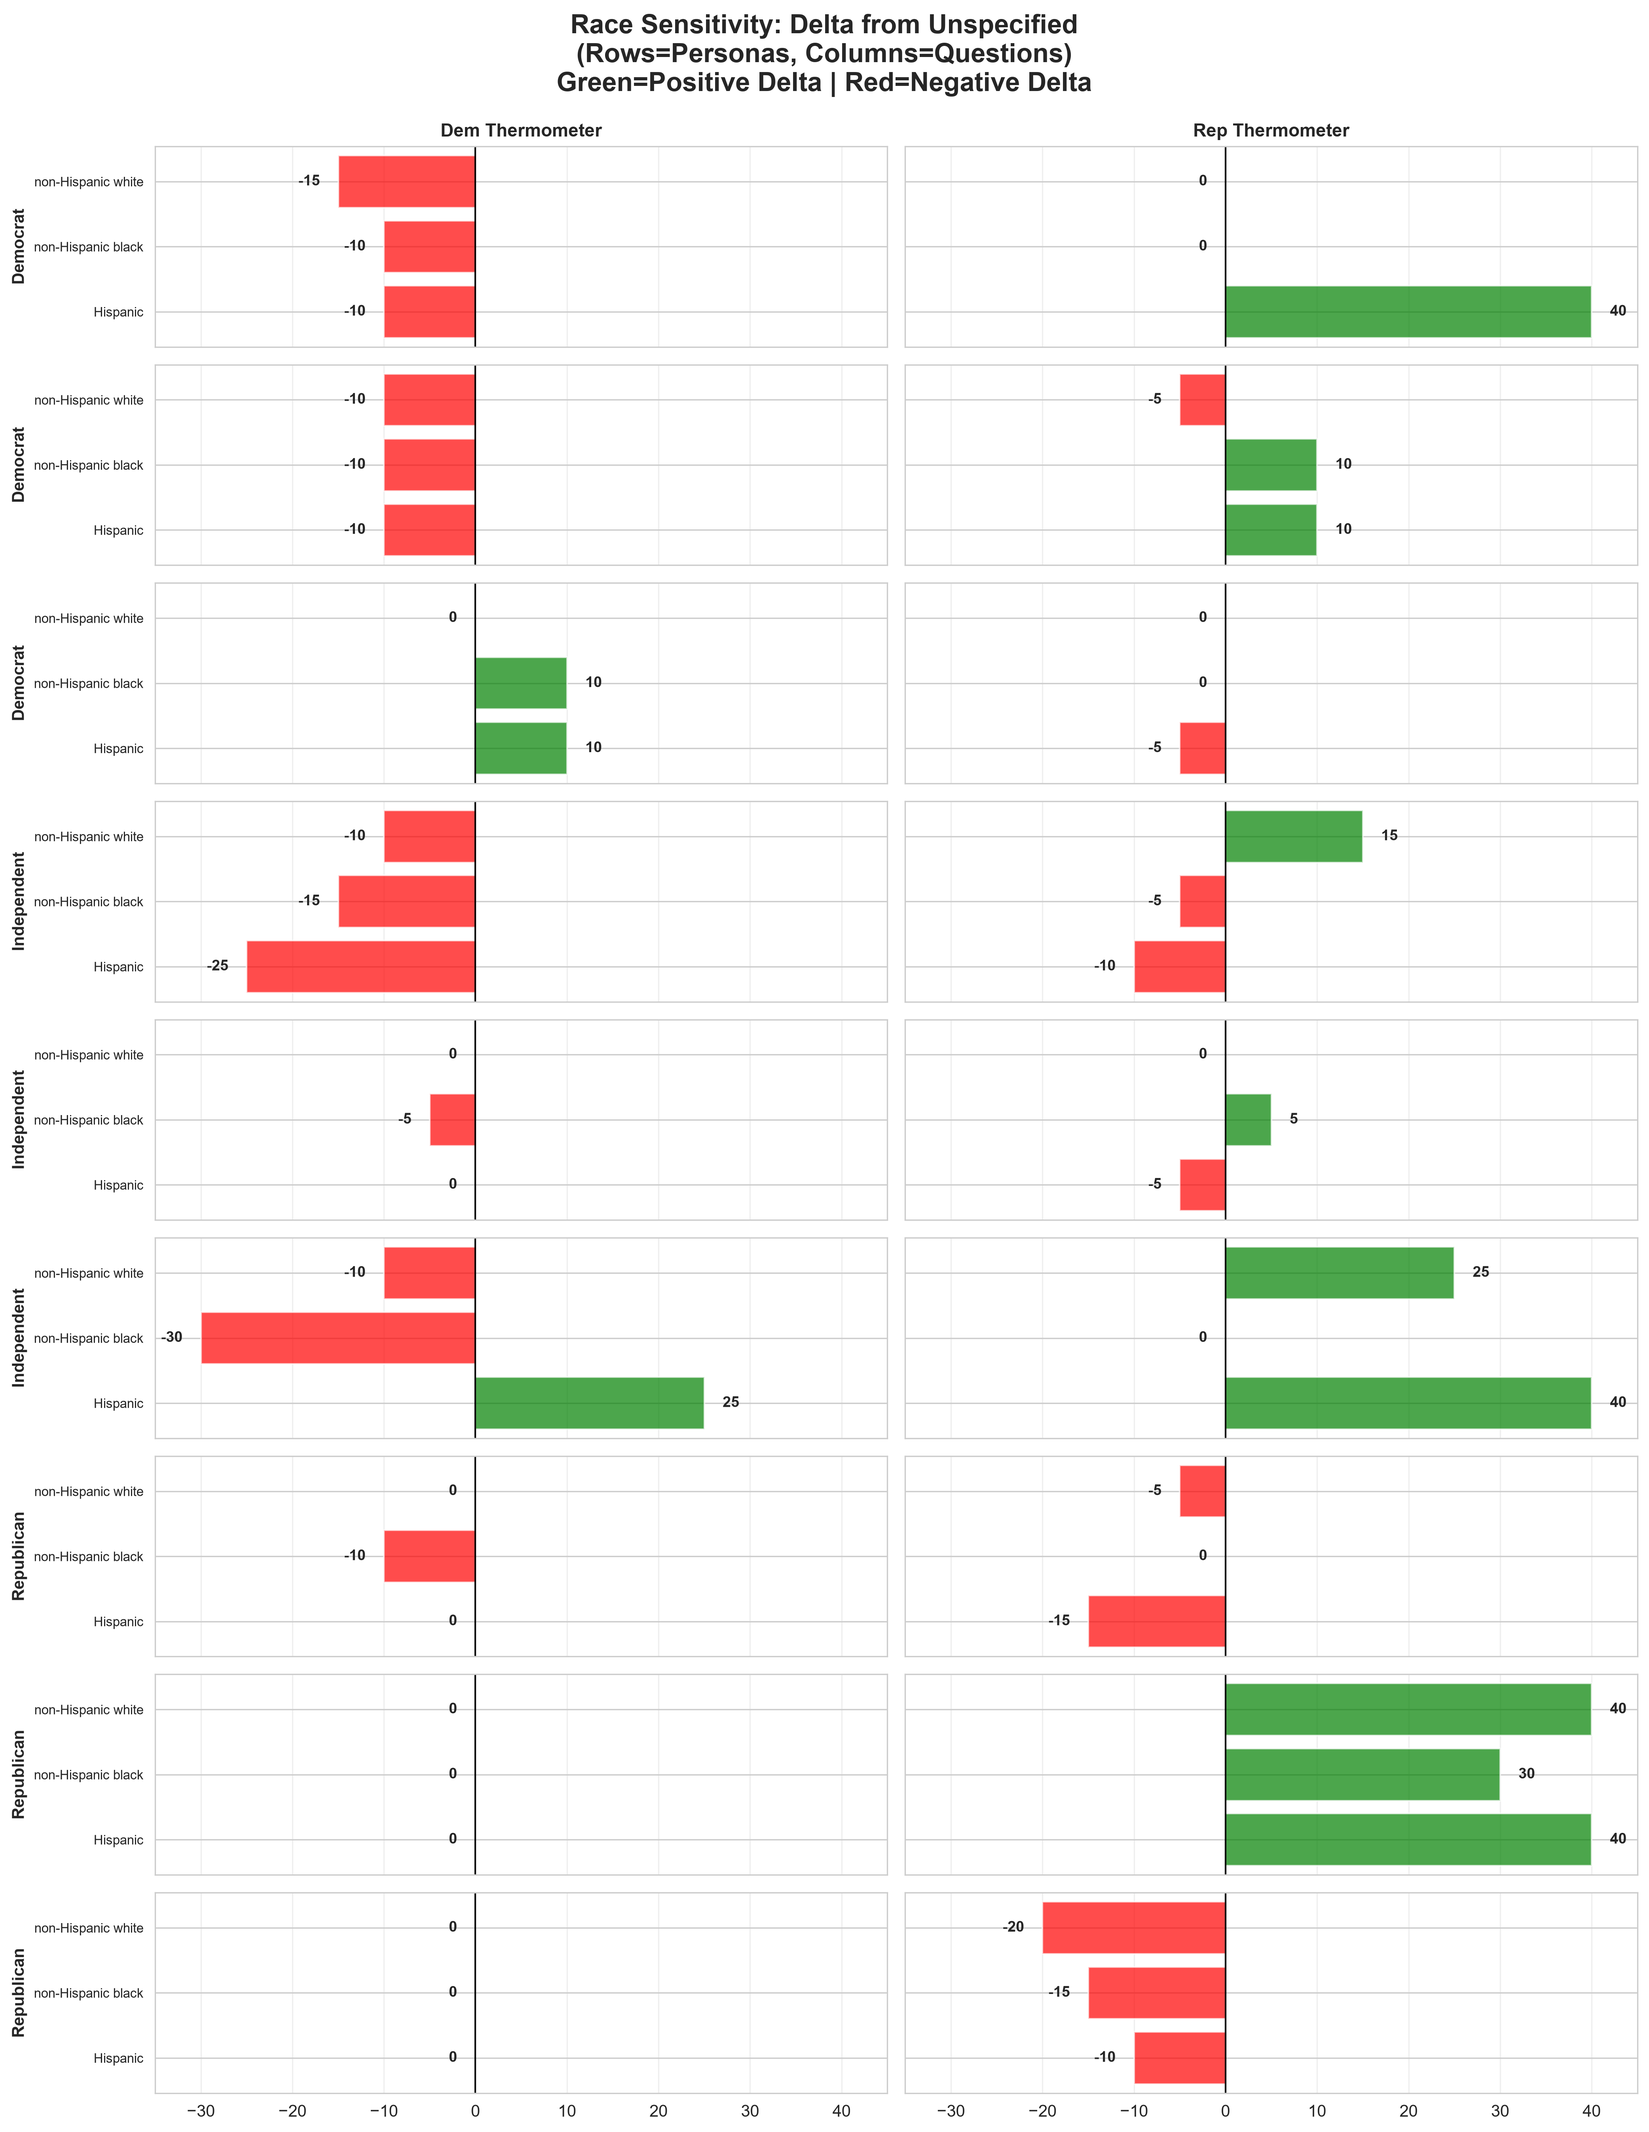
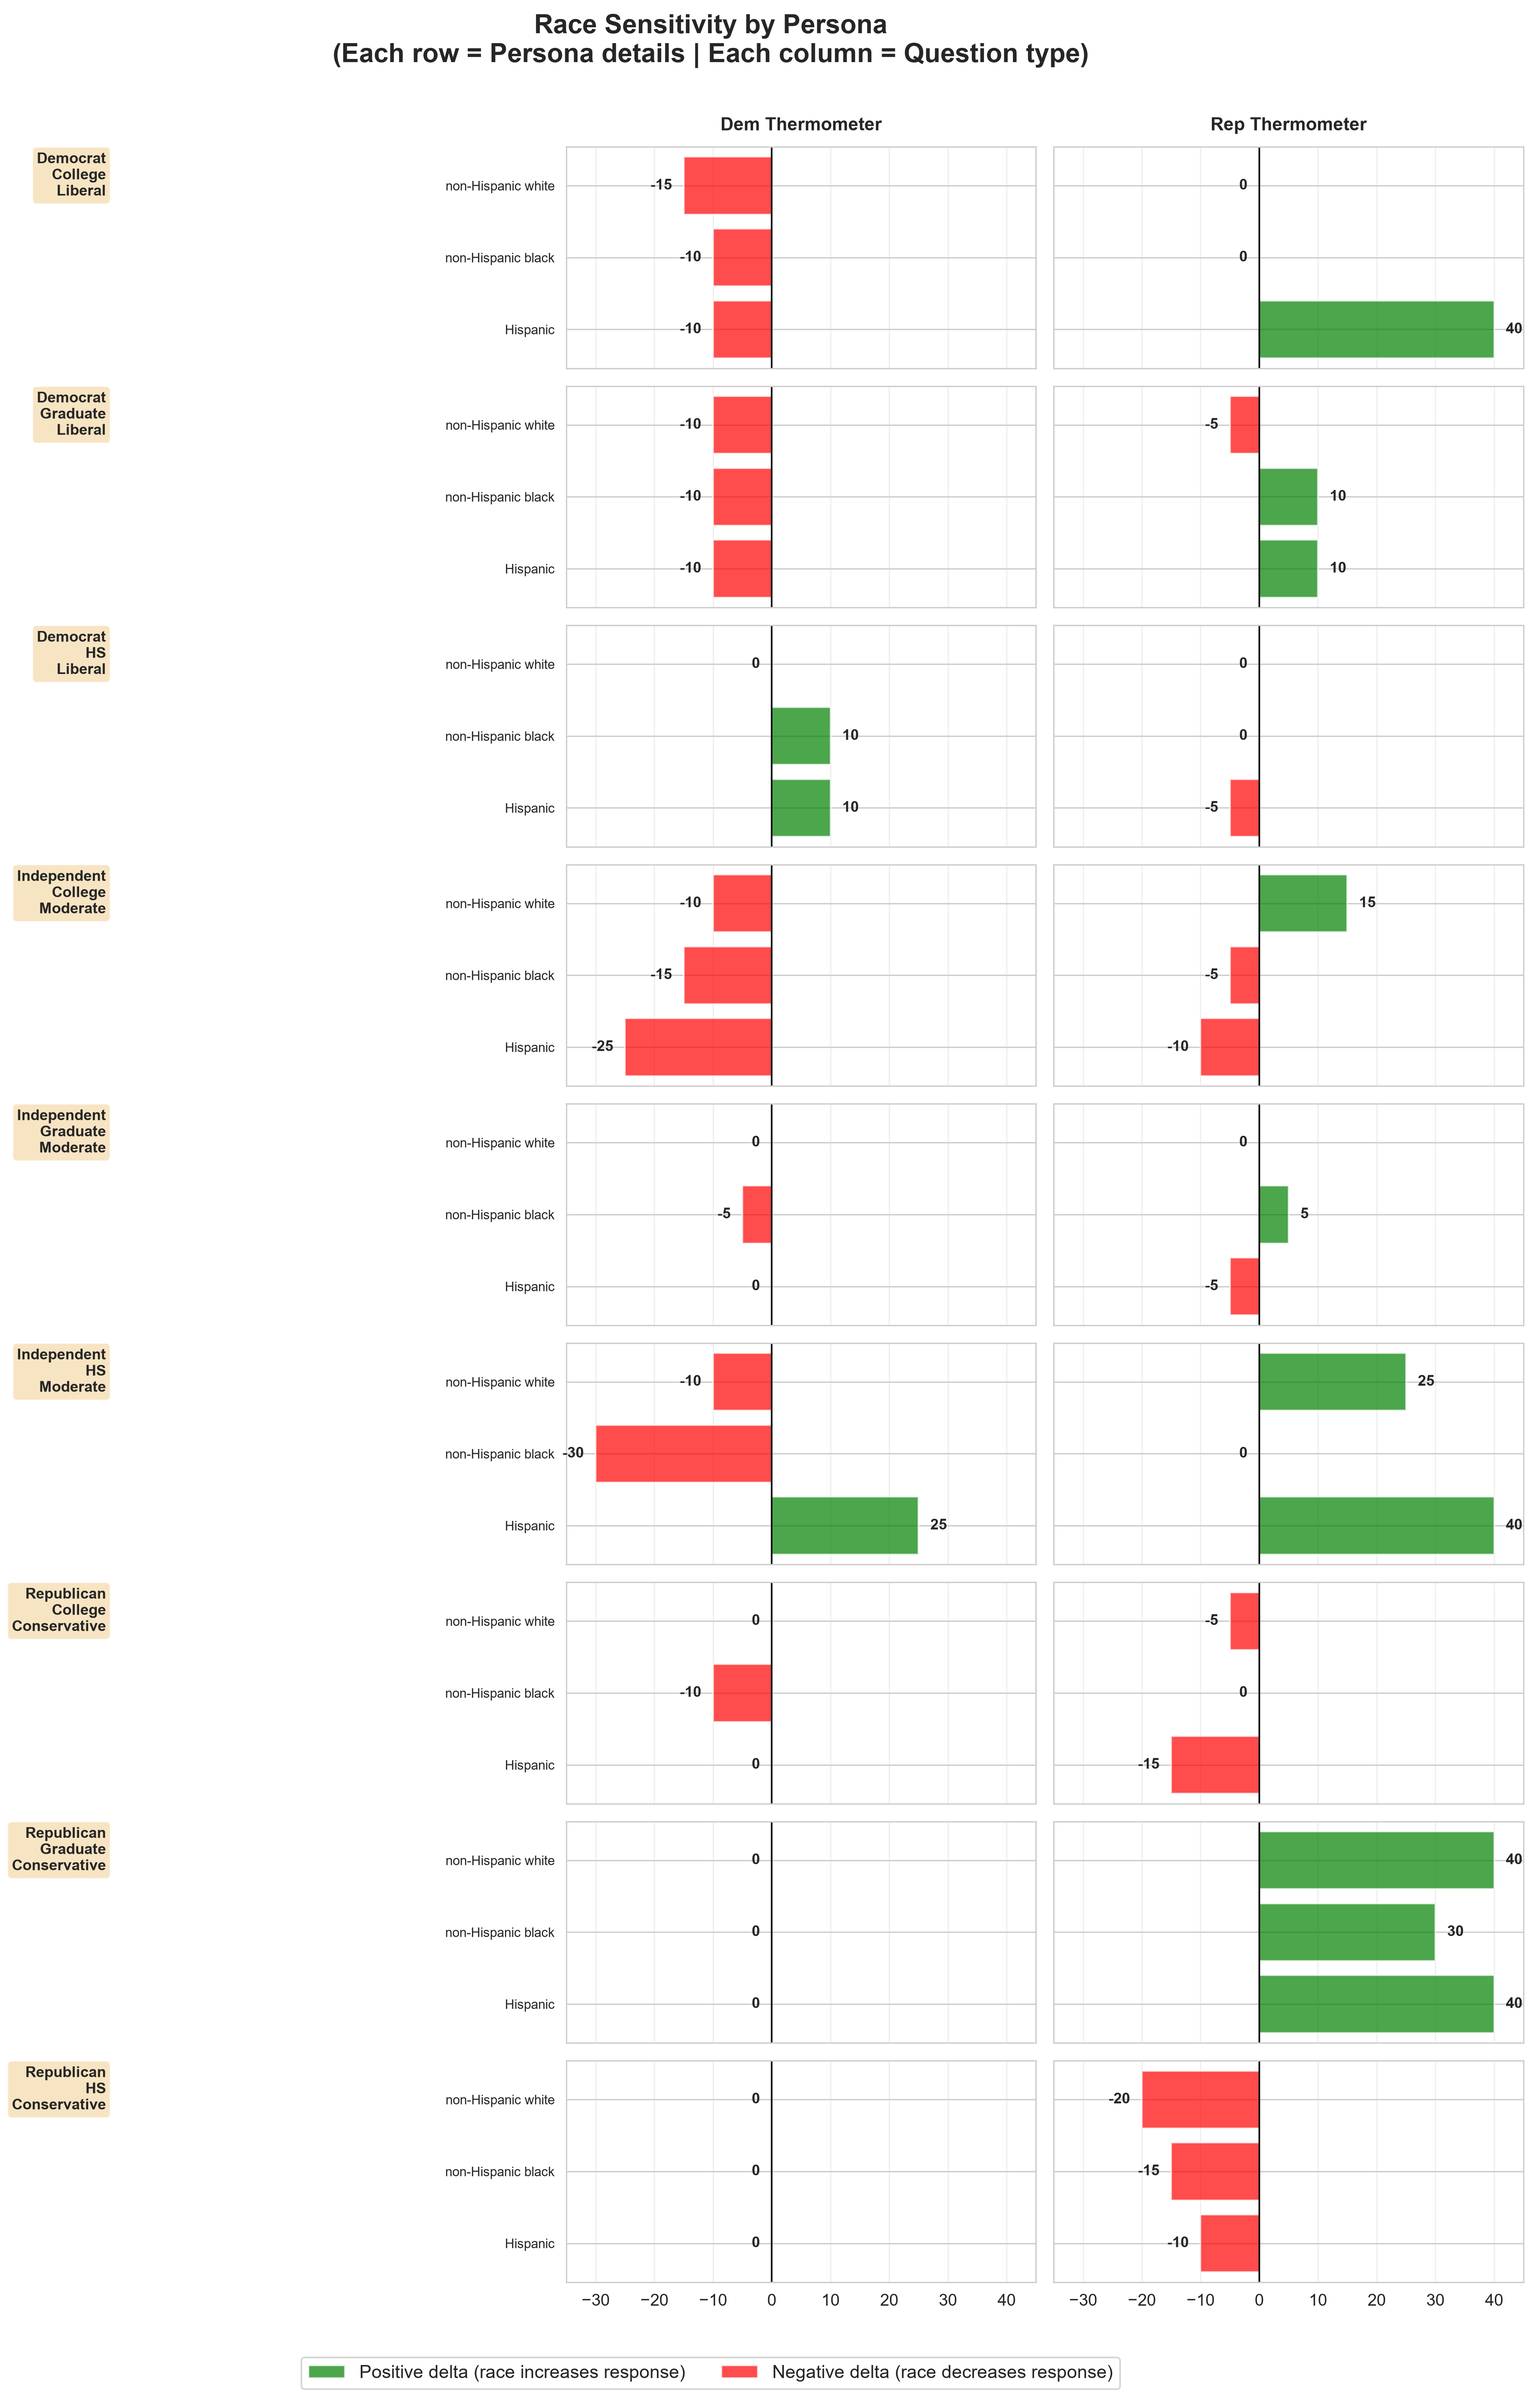
added persona details

diff --git a/analysis/visualize_race_sensitivity.py b/analysis/visualize_race_sensitivity.py
@@ -131,14 +131,14 @@ def visualize_race_sensitivity(results_file, output_dir="data/results"):
     print(f"[✓] Saved to: {output_file4}")
     plt.close()
 
-    # ===== PLOT 5: Faceted by Persona & Question =====
+ # ===== PLOT 5: Faceted by Persona & Question =====
     print("[Creating plot 5: Faceted grid...]")
 
     personas = sorted(deltas['persona'].unique())
     questions = sorted(deltas['question'].unique())
 
     fig, axes = plt.subplots(len(personas), len(questions),
-                            figsize=(14, 18), sharex=True, sharey=True)
+                            figsize=(14, 20), sharex=True, sharey=True)
 
     if len(personas) == 1:
         axes = axes.reshape(1, -1)
@@ -149,7 +149,7 @@ def visualize_race_sensitivity(results_file, output_dir="data/results"):
 
             # Get data for this persona × question
             mask = (deltas['persona'] == persona) & (deltas['question'] == question)
-            data_subset = deltas[mask].sort_values('race')  # Sort by race name for consistency
+            data_subset = deltas[mask].sort_values('race')
 
             colors_bar = ['red' if x < 0 else 'green' for x in data_subset['delta']]
             bars = ax.barh(range(len(data_subset)), data_subset['delta'].values, color=colors_bar, alpha=0.7)
@@ -158,11 +158,26 @@ def visualize_race_sensitivity(results_file, output_dir="data/results"):
             ax.set_yticks(range(len(data_subset)))
             ax.set_yticklabels(data_subset['race'].values, fontsize=8)
 
-            # Labels and formatting
+            # Add persona details box in top left
             if j == 0:
-                ax.set_ylabel(persona.split(',')[0].strip(), fontsize=10, fontweight='bold')
+                # Parse persona details
+                parts = persona.split(',')
+                party = parts[0].strip()
+                education = parts[1].strip() if len(parts) > 1 else ""
+                ideology = parts[2].strip() if len(parts) > 2 else ""
+
+                # Format details for display
+                details_text = f"{party}\n{education}\n{ideology}"
+                ax.text(-0.98, 0.98, details_text,
+                       transform=ax.transAxes,
+                       fontsize=9, fontweight='bold',
+                       verticalalignment='top', horizontalalignment='right',
+                       bbox=dict(boxstyle='round', facecolor='wheat', alpha=0.8))
+
+            # Question label on top
             if i == 0:
-                ax.set_title(question.replace('_', ' ').title(), fontsize=11, fontweight='bold')
+                q_label = question.replace('_', ' ').title()
+                ax.set_title(q_label, fontsize=11, fontweight='bold', pad=10)
 
             ax.axvline(x=0, color='black', linestyle='-', linewidth=1.0)
             ax.grid(axis='x', alpha=0.3)
@@ -174,15 +189,21 @@ def visualize_race_sensitivity(results_file, output_dir="data/results"):
                 ax.text(x_pos, idx, f'{delta:.0f}', va='center',
                        ha='left' if delta > 0 else 'right', fontsize=9, fontweight='bold')
 
-    plt.suptitle('Race Sensitivity: Delta from Unspecified\n(Rows=Personas, Columns=Questions)\nGreen=Positive Delta | Red=Negative Delta',
+    # Add legend
+    from matplotlib.patches import Patch
+    legend_elements = [
+        Patch(facecolor='green', alpha=0.7, label='Positive delta (race increases response)'),
+        Patch(facecolor='red', alpha=0.7, label='Negative delta (race decreases response)')
+    ]
+    fig.legend(handles=legend_elements, loc='lower center', ncol=2, fontsize=11, bbox_to_anchor=(0.5, -0.01))
+
+    plt.suptitle('Race Sensitivity by Persona\n(Each row = Persona details | Each column = Question type)',
                 fontsize=16, fontweight='bold', y=0.995)
-    plt.tight_layout()
+    plt.tight_layout(rect=[0, 0.02, 1, 0.99])
     output_file5 = f"{output_dir}/race_sensitivity_faceted.png"
     plt.savefig(output_file5, dpi=300, bbox_inches='tight')
     print(f"[✓] Saved to: {output_file5}")
     plt.close()
-
-    print(f"\n[✓] All visualizations complete!")
 
 if __name__ == "__main__":
     parser = argparse.ArgumentParser()
